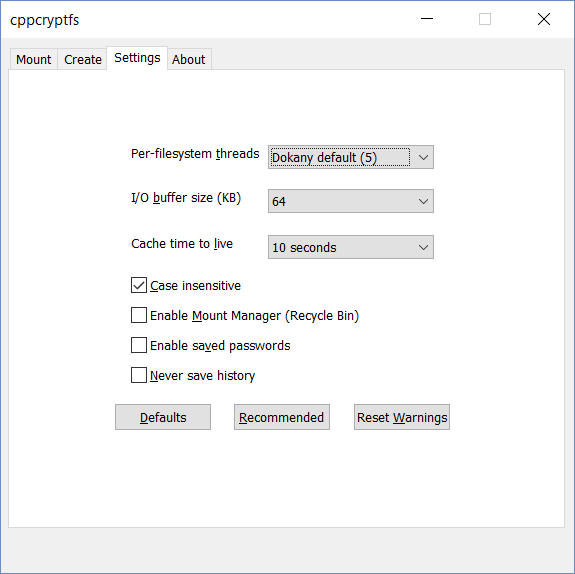
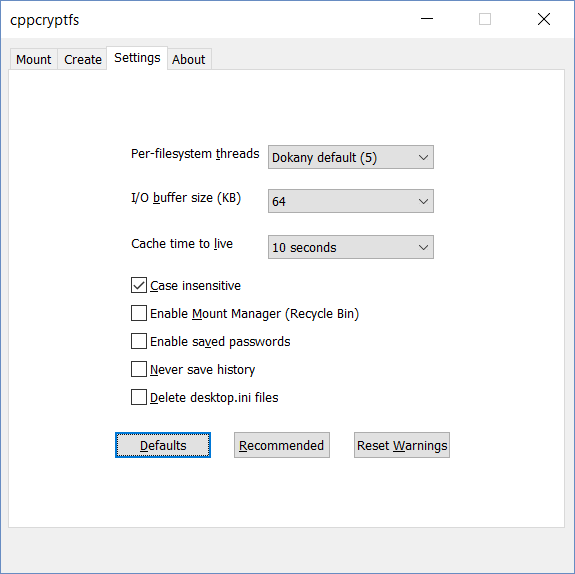
update docs

Changed region(s): [[0.1774, 0.5331, 0.7983, 0.7997]]

diff --git a/libcppcryptfs/context/cryptcontext.cpp b/libcppcryptfs/context/cryptcontext.cpp
@@ -84,7 +84,8 @@ static void get_deletable_files(CryptContext *con, vector<wstring>& files)
 		files.push_back(DIR_IV_NAME);
 	}
 
-	if (con->m_delete_spurrious_files) {
+	if (con->m_delete_spurrious_files && !con->GetConfig()->m_PlaintextNames 
+			&& !con->GetConfig()->m_reverse) {
 		files.push_back(L"desktop.ini");
 	}
 }

diff --git a/README.md b/README.md
@@ -222,6 +222,10 @@ This setting has no effect on reverse filesystems or when filesystems are mounte
 
 Note:  If you are syncing the encrypted files of your filesystem with Dropbox, then if you enable mount manger (recycle bin), then Dropbox will not be able to sync the files in the recycle bin because it does not have sufficient privileges.  
 
+**Delete desktop.ini files**
+
+This setting was created for https://github.com/bailey27/cppcryptfs/issues/62.  Apparently, Google Drive creates hidden desktop.ini files in every directory in the source folder of encrypted files, which were preventing users from deleting directories from the un-encrypted side.  If the filesystem is mounted with this setting on, then cppcryptfs will automatically delete unencrypted desktop.ini files when deleting a directory.  This setting has effect only in forward mode and only if encrypted filenames are used.
+
 You should either run Dropbox as Administrator, or you should determine which encrypted folder name is the name of the recycle bin and exclude it using the selective sync feature of Dropbox.  If you are using plaintext file names, then the recycle bin will be simply "$RECYCLE.BIN". The --list command line switch, if given the (unencrypted) path to the root directory of the filesystem as an argument, can be used to find the encrypted name of the recycle bin.
 
 e.g.
